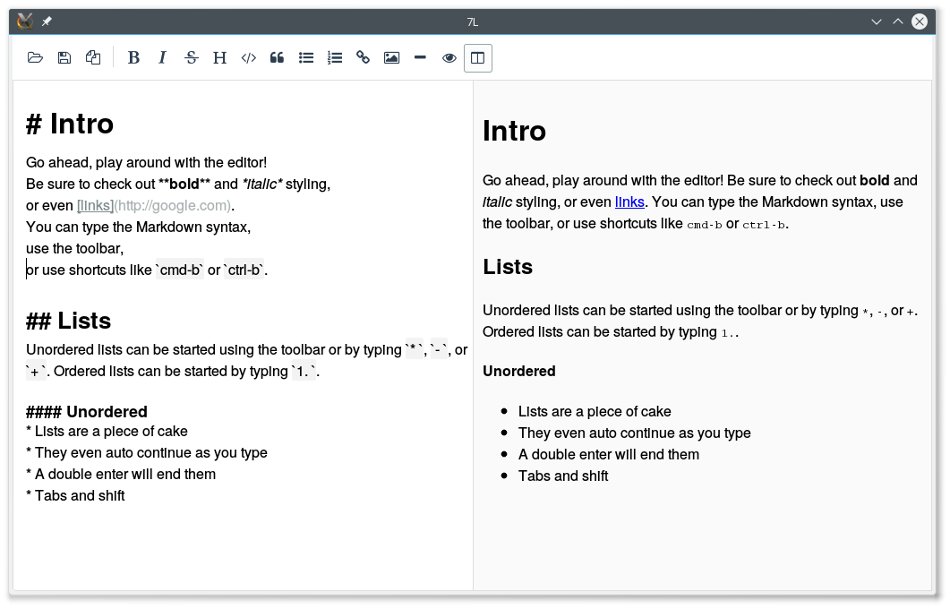
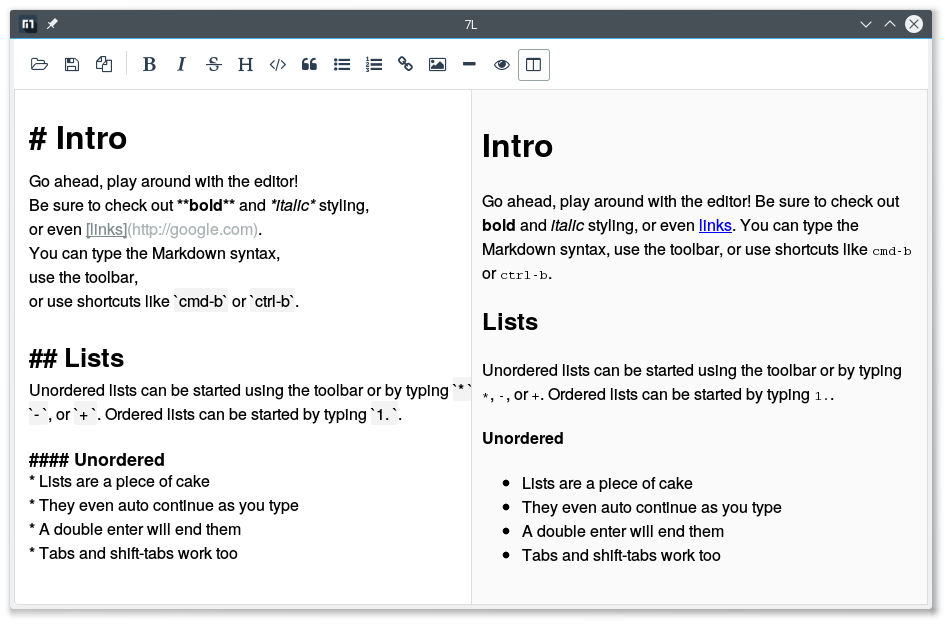
v0.2.0

diff --git a/index.html b/index.html
@@ -25,7 +25,7 @@
 <div class="container">
 <header>
 </header>
-<h1 id="l-v0.1.0">7L <small>v0.1.0</small></h1>
+<h1 id="l-v0.2.0-go">7L <small>v0.2.0 GO</small></h1>
 <p>本地 Markdown 编辑器, 使用 pandoc 进行转换, 使用所见即所得的编辑方式, 未来将增加 pdf 等格式输出的功能</p>
 <hr />
 <h2 id="形状">形状</h2>
@@ -47,9 +47,17 @@
 <p>浏览器, 通过 javascript_prompt_callback 实现 simplemde 保存文件到本地</p></li>
 </ul>
 <p><br> 另外, 目前用的 markdown 文件图标来自 KDE5 主题 微风</p>
+<h2 id="改造说明">改造说明</h2>
+<ul>
+<li><strong>v0.2.0 GO</strong>
+<ol type="1">
+<li>去除文泉驿微米黑字体, windows 使用微软雅黑</li>
+<li>添加程序图标, 使用新的 Markdown mimetype 图标</li>
+</ol></li>
+</ul>
 <h2 id="help">HELP!</h2>
 <p>目前还存在很多问题, 希望各位能帮忙提提需求, 报报 BUG, 改进程序.</p>
-<p>如果能帮忙绘制 markdown 文件的图标和程序的图标, 更是感激.</p>
+<p><del>如果能帮忙绘制 markdown 文件的图标和程序的图标, 更是感激.</del> (谢谢 <strong>区家辉</strong> 同学的帮忙)</p>
 <hr />
 <p class="text-center">
 页面灵感来自<a href="http://mrcoles.com/demo/markdown-css/">Markdown.css</a>

diff --git a/index.md b/index.md
@@ -1,7 +1,7 @@
 % 7L
 % xalley
 
-# 7L <small>v0.1.0</small>
+# 7L <small>v0.2.0 GO</small>
 
 本地 Markdown 编辑器,
 使用 pandoc 进行转换,
@@ -46,11 +46,17 @@
 <br>
 另外, 目前用的 markdown 文件图标来自 KDE5 主题 微风
 
+## 改造说明
+
+* **v0.2.0 GO**
+    1. 去除文泉驿微米黑字体, windows 使用微软雅黑
+    2. 添加程序图标, 使用新的 Markdown mimetype 图标
+
 ## HELP!
 
 目前还存在很多问题, 希望各位能帮忙提提需求, 报报 BUG, 改进程序.
 
-如果能帮忙绘制 markdown 文件的图标和程序的图标, 更是感激.
+~~如果能帮忙绘制 markdown 文件的图标和程序的图标, 更是感激.~~ (谢谢 **区家辉** 同学的帮忙)
 
 
 ------------------------------------------------------------------------------------------
